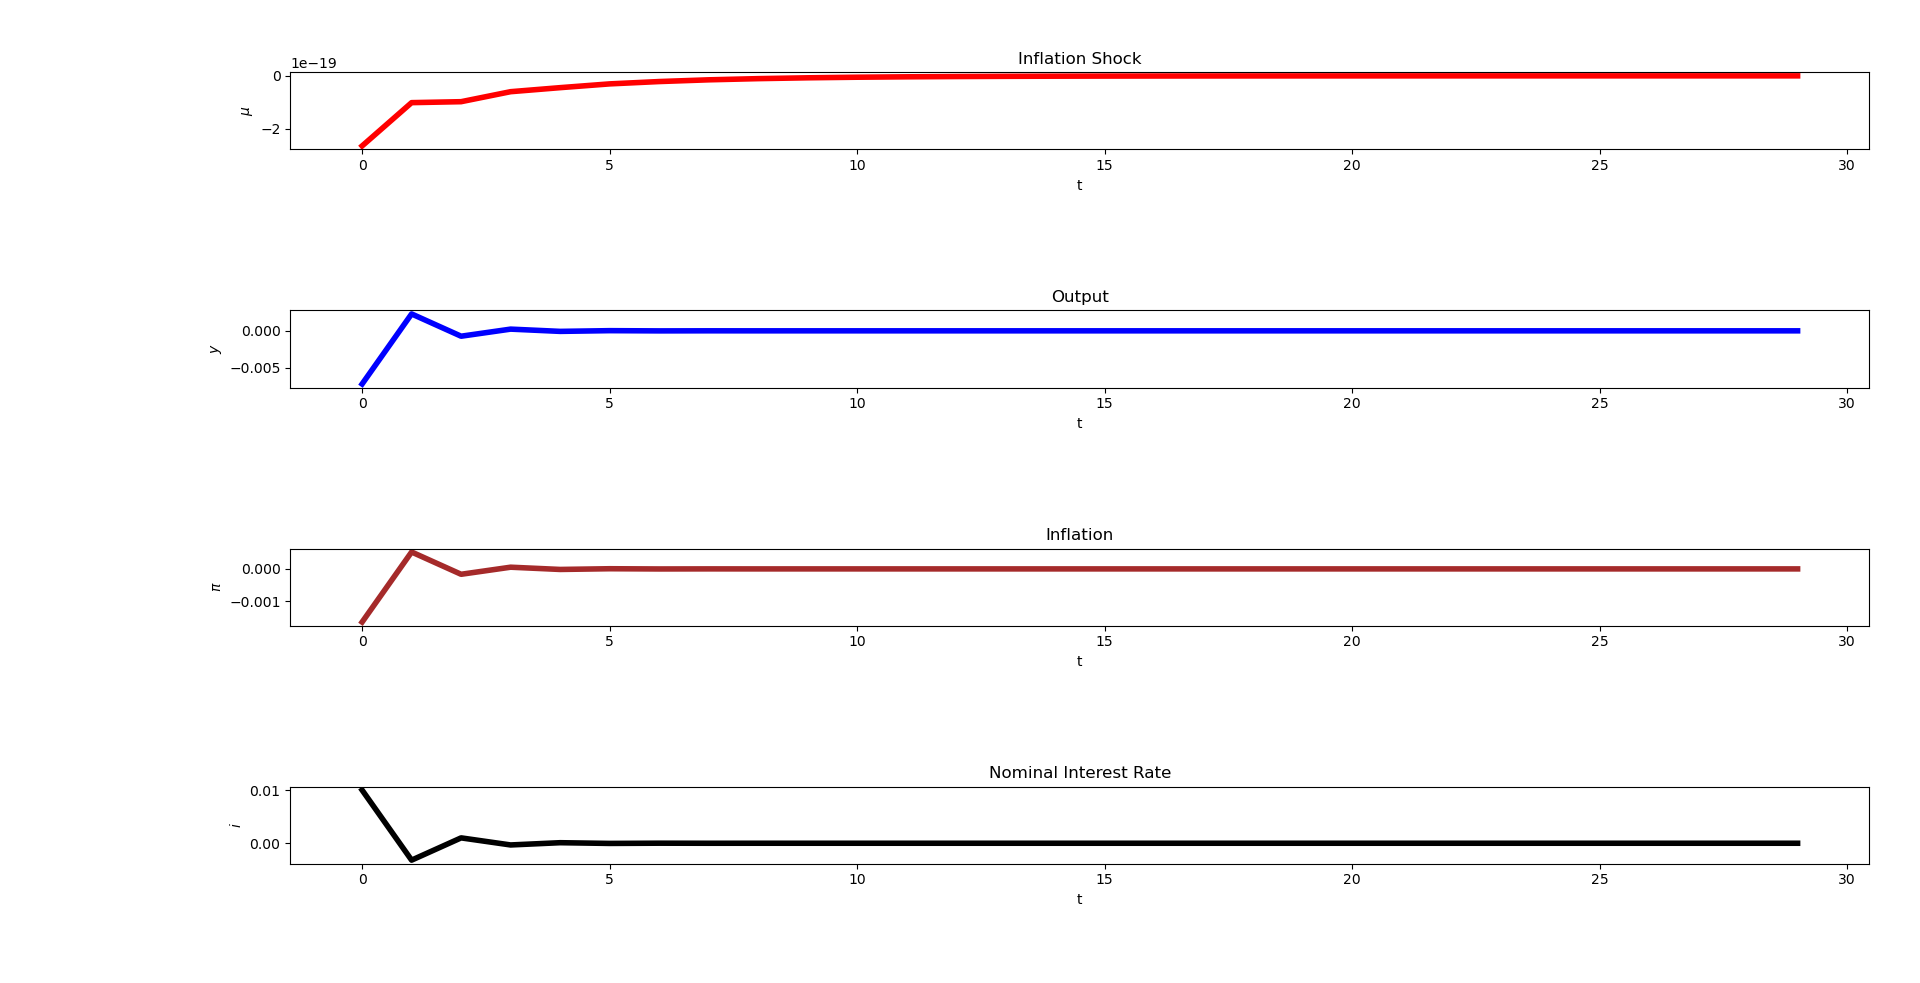
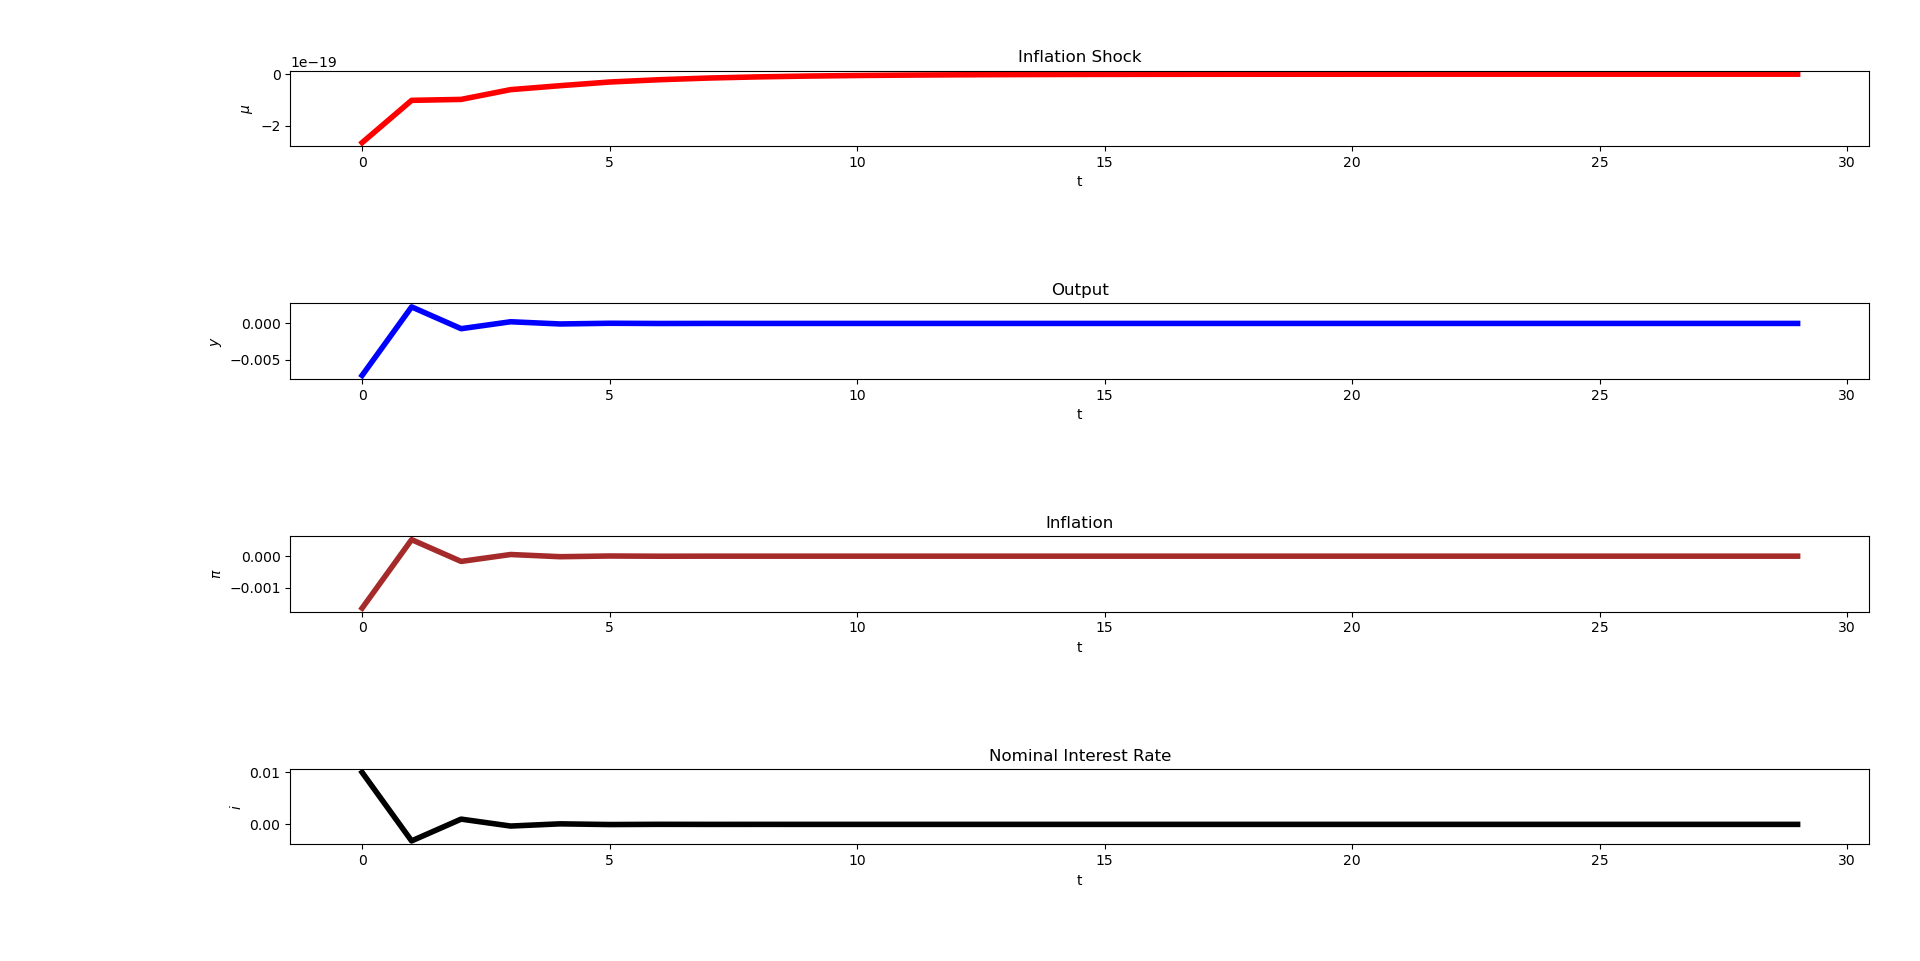
v1
still needs interpretation and has different results for the last question
Probably due to calculation of expectations

diff --git a/Final/Final-Fickler.py b/Final/Final-Fickler.py
@@ -5,94 +5,105 @@ Created on Sat Feb  13 2021
     @author: Florian Fickler - 1545713
 """
 
-#Importing packages
+# Importing packages
 import numpy as np
 import matplotlib.pyplot as plt
-from  scipy.optimize import fsolve
+from scipy.optimize import fsolve
+import pandas as pd
+from statsmodels.formula.api import ols
 
 # =============================================================================
 # Define parameters in a dictionary
-para = {"sigma" : 1,
-        "kappa" : 0.3,
-        "beta" : 0.995,
-        "phi_pi" : 1.5,
-        "phi_y" : 0.1,
-        "rho_mu" : 0.7}
+para = {"sigma": 1,
+        "kappa": 0.3,
+        "beta": 0.995,
+        "phi_pi": 1.5,
+        "phi_y": 0.1,
+        "rho_mu": 0.7}
+
 
 # =============================================================================
 # 1. Define Matrices A,M,D
-# Each line defines one matrix by entering the respective values that are either fixed or taken from the parameters dictionary above.
-# The matrices are defined globaly, therefore, when they are needed in later functions, they do not need to be called as inputs.
-A = np.array([[1,0,0,0],
-              [0,1,0,1/para["sigma"]],
-              [-1,-para["kappa"], 1, 0],
-              [0,0,0,1]])
+# Each line defines one matrix by entering the respective values
+# Values are either fixed or taken from the parameters dictionary above.
+# The matrices are defined globaly-
+# Therefore, when they are needed in later functions, they do not need to be called
 
-M = np.array([[0,0,0,0],
-              [0,1,1/para["sigma"],0],
-              [0,0,para["beta"],0],
-              [0,0,0,0]])
+A = np.array([[1, 0, 0, 0],
+              [0, 1, 0, 1/para["sigma"]],
+              [-1, -para["kappa"], 1, 0],
+              [0, 0, 0, 1]])
 
-D = np.array([[para["rho_mu"],0,0,0],
-              [0,0,0,0],
-              [0,0,0,0],
-              [0, para["phi_y"],para["phi_pi"],0]])
+M = np.array([[0, 0, 0, 0],
+              [0, 1, 1/para["sigma"], 0],
+              [0, 0, para["beta"], 0],
+              [0, 0, 0, 0]])
+
+D = np.array([[para["rho_mu"], 0, 0, 0],
+              [0, 0, 0, 0],
+              [0, 0, 0, 0],
+              [0, para["phi_y"], para["phi_pi"], 0]])
+
 
 # =============================================================================
 # 2. Function for Calculating z_t
-def Q2(guess):    
+def Q2(guess):
     # Setting the expectations and the previous levels to the guessed values
     Et_zt = guess
-    ztminus1 =  guess
-    
+    ztminus1 = guess
+
     # Setting the Error term to zero, e.g. assuming, that there is no shock
     u_t = 0
-    
+
     # Calculating the RHS of Eq6
     RHS6 = M@Et_zt + D@ztminus1 + u_t
-    
+
     # Calculating z_t as implied by Eq.6
     z_t = np.linalg.inv(A) @ RHS6
-    
-    #Calculating the difference from the guessed value and the actual value
+
+    # Calculating the difference from the guessed value and the actual value
     diff = z_t - guess
-    
+
     # returning the difference
     return diff
 
+
 # Executing the Function with guesses as inputs
-diff = Q2([1,2,3,4])
+diff = Q2([1, 2, 3, 4])
 print("The difference between the guessed and implied values are: ", diff)
+
 
 # =============================================================================
 # # 3.Using Fsolve to find the SS when there is no shock
-SteadyState_nocons = fsolve(Q2, [1,2,3,4])
+SteadyState_nocons = fsolve(Q2, [1, 2, 3, 4])
 print("The SS without a Shock is: ", SteadyState_nocons)
+
 
 # =============================================================================
 # 4.
 def Q4(F_guess):
-    # A,M,D are defined globally 
-    
+    # A,M,D are defined globally
+
     # Calculate the new F once
-    F_new = np.zeros((4,4))
-      
+    F_new = np.zeros((4, 4))
+
     # Run a While loop, comparing the guessed value to the new value
-    # If they are "sufficiently close to each other, then exit the loop 
-    
+    # If they are "sufficiently close to each other, then exit the loop
+
     while np.max(np.abs(F_new - F_guess)) > 1e-8:
         # Assign the new value as the new guess
-        F_guess = F_new        
+        F_guess = F_new
         # Calculate the new F again based on the altered guess
         F_new = np.linalg.inv(A - M@F_guess) @ D
         # Then reevaluate the difference between the newly estimated F and the previously estimated F
         # If the difference becomes small enough, the while loop is exited
-           
-    # If F has converged, calculate Q    
+
+    # If F has converged, calculate Q
     Q = np.linalg.inv(A - M @ F_new)
-    
+
     # return the converged F and Q
-    return F_new, Q 
+    return F_new, Q
+
 
 # =============================================================================
 # 5.
@@ -100,24 +111,25 @@ def Q4(F_guess):
 
 
 # Call function Q4
-F, Q = Q4(np.array([[5],[6],[7],[8]]))
+F, Q = Q4(np.array([[5], [6], [7], [8]]))
 
 # General Solution
 # z_t = F*z_tminus1 + Q * u_t
+
 
 # =============================================================================
 # 6.
 # Saving the corrosponding vectors for the MSV solution
 # z_t = C_mu*mu_neg1 + C_y*y_tneg1 + C_pi*pi_tneg1 + C_eps*eps_t^mu + C_eps_i*eps_t^i
 # Vectors for the lagged variables are stored in each column of F
-C_mu = F[:, 0]
+C_mu = F[:, 0]  # whole columns are accessed by using : to access all rows for a given column
 C_y = F[:, 1]
 C_pi = F[:, 2]
-C_i = F[:, 3]
 
 # Those for the white noise terms are stored in Q
 C_eps_mu = Q[:, 0]
 C_eps_i = Q[:, 3]
+
 
 # =============================================================================
 # 7. Calculating Impulse Responses for epsilon_mu
@@ -126,79 +138,75 @@ N = 30
 # For the Noise
 epsilon_mu1 = np.zeros(N)
 epsilon_i1 = np.zeros(N)
-                     
+
 # For the variables
 mu1 = np.zeros(N)
 y1 = np.zeros(N)
 pi1 = np.zeros(N)
 i1 = np.zeros(N)
 
-# Insert Impulse
-epsilon_mu1[0] =  0.01                 
+# Insert Impulse into the noise array
+epsilon_mu1[0] = 0.01
 
 # for loop to go through 30 periods
 for j in range(N):
-    mu1[j],y1[j],pi1[j],i1[j] = [C_mu[hh]*mu1[j-1] + 
-                             C_y[hh]*y1[j-1] + 
-                             C_pi[hh]*pi1[j-1] + 
-                             C_i[hh]*i1[j-1] + 
-                             C_eps_mu[hh]*epsilon_mu1[j] + 
-                             C_eps_i[hh]*epsilon_i1[j]                               
-                               for hh in range(4)]
+    mu1[j], y1[j], pi1[j], i1[j] = [C_mu[hh]*mu1[j-1] +
+                                    C_y[hh]*y1[j-1] +
+                                    C_pi[hh]*pi1[j-1] +
+                                    C_eps_mu[hh]*epsilon_mu1[j] +
+                                    C_eps_i[hh]*epsilon_i1[j]
+                                    for hh in range(4)]
+
 
 # =============================================================================
 # 8. Calculating Impulse Responses for epsilon_i
-# First set up number of periods and empty arrays
-N = 30
 # For the Noise
 epsilon_mu2 = np.zeros(N)
 epsilon_i2 = np.zeros(N)
-                     
+
 # For the variables
 mu2 = np.zeros(N)
 y2 = np.zeros(N)
 pi2 = np.zeros(N)
 i2 = np.zeros(N)
 
-# Insert Impulse
-epsilon_i2[0] =  0.01                 
+# Insert Impulse into noise array
+epsilon_i2[0] = 0.01
 
-# for loop to go through 30 periods
+# for loop to go through 30 periods and calculate the realizations for each
 for j in range(N):
-    mu2[j],y2[j],pi2[j],i2[j] = [C_mu[hh]*mu2[j-1] + 
-                             C_y[hh]*y2[j-1] + 
-                             C_pi[hh]*pi2[j-1] + 
-                             C_i[hh]*i2[j-1] + 
-                             C_eps_mu[hh]*epsilon_mu2[j] + 
-                             C_eps_i[hh]*epsilon_i2[j]                               
-                               for hh in range(4)]
+    mu2[j], y2[j], pi2[j], i2[j] = [C_mu[hh]*mu2[j-1] +
+                                    C_y[hh]*y2[j-1] +
+                                    C_pi[hh]*pi2[j-1] +
+                                    C_eps_mu[hh]*epsilon_mu2[j] +
+                                    C_eps_i[hh]*epsilon_i2[j]
+                                    for hh in range(4)]
+
 
 # =============================================================================
 # 9. Creating Figures
+# Figure 1 for the shock from Q7
+plt.figure("Impulse Response Epsilon_Mu")  # Figure Title
 
-#Figure 1 for the shock from Q7
-plt.figure("Impulse Response Epsilon_Mu")
+plt.subplot(4, 1, 1)  # Position of Subplot within Figure
+plt.title("Inflation Shock")  # Subplot Title
+plt.xlabel("t")  # x label
+plt.ylabel(r"$\mu$")  # y label
+plt.plot([mu1[t] for t in range(N)], linewidth=4, color='red')  # plot data and line properties
 
-plt.subplot(4,1,1)
-plt.title("Inflation Shock")
-plt.xlabel("t")
-plt.ylabel(r"$\mu$")
-plt.plot([mu1[t] for t in range(N)], linewidth=4, color='red')
-plt.axis('auto')
-
-plt.subplot(4,1,2)
+plt.subplot(4, 1, 2)
 plt.title("Output")
 plt.xlabel("t")
 plt.ylabel(r"$y$")
 plt.plot([y1[t] for t in range(N)], linewidth=4, color='blue')
 
-plt.subplot(4,1,3)
+plt.subplot(4, 1, 3)
 plt.title("Inflation")
 plt.xlabel("t")
 plt.ylabel(r"$\pi$")
 plt.plot([pi1[t] for t in range(N)], linewidth=4, color='brown')
 
-plt.subplot(4,1,4)
+plt.subplot(4, 1, 4)
 plt.title("Nominal Interest Rate")
 plt.xlabel("t")
 plt.ylabel(r"$i$")
@@ -206,32 +214,104 @@ plt.plot([i1[t] for t in range(N)], linewidth=4, color='black')
 
 plt.tight_layout()
 
-#Figure 1 for the shock from Q8
+# Figure 2 for the shock from Q8
 plt.figure("Impulse Response Epsilon_I")
 
-plt.subplot(4,1,1)
+plt.subplot(4, 1, 1)
 plt.title("Inflation Shock")
 plt.xlabel("t")
 plt.ylabel(r"$\mu$")
 plt.plot([mu2[t] for t in range(N)], linewidth=4, color='red')
 plt.axis('auto')
 
-plt.subplot(4,1,2)
+plt.subplot(4, 1, 2)
 plt.title("Output")
 plt.xlabel("t")
 plt.ylabel(r"$y$")
 plt.plot([y2[t] for t in range(N)], linewidth=4, color='blue')
 
-plt.subplot(4,1,3)
+plt.subplot(4, 1, 3)
 plt.title("Inflation")
 plt.xlabel("t")
 plt.ylabel(r"$\pi$")
 plt.plot([pi2[t] for t in range(N)], linewidth=4, color='brown')
 
-plt.subplot(4,1,4)
+plt.subplot(4, 1, 4)
 plt.title("Nominal Interest Rate")
 plt.xlabel("t")
 plt.ylabel(r"$i$")
 plt.plot([i2[t] for t in range(N)], linewidth=4, color='black')
 
 plt.tight_layout()
+
+
+# =============================================================================
+# 10. Interpretation of the Impulse Response
+
+
+# =============================================================================
+# 11. Creating Figures
+# Change the number of periods
+N = 500
+
+# set seed for radnom draws
+np.random.seed(1594)
+
+# Draw random realizations for the shocks
+epsilon_mu3 = np.random.rand(N)
+epsilon_i3 = np.random.rand(N)
+
+# Initialize empty arrays for the variables
+mu3 = np.zeros(N)
+y3 = np.zeros(N)
+pi3 = np.zeros(N)
+i3 = np.zeros(N)
+
+# Insert Impulse
+epsilon_mu3[0] = 0.01
+
+# for loop to go through 30 periods
+for j in range(N):
+    mu3[j], y3[j], pi3[j], i3[j] = [C_mu[hh]*mu3[j-1] +
+                                    C_y[hh]*y3[j-1] +
+                                    C_pi[hh]*pi3[j-1] +
+                                    C_eps_mu[hh]*epsilon_mu3[j] +
+                                    C_eps_i[hh]*epsilon_i3[j]
+                                    for hh in range(4)]
+
+df = pd.DataFrame(list(zip(y3, pi3)), columns=['Output', 'Inflation'])
+
+
+# =============================================================================
+# 12. Calculating Inflation Expectations
+# Advancing z_t to z_t+1 and taking expectations yields:
+# EZ_t+1 =C_mu*mu_t C_y*y_t + C_pi*pi_t
+
+# Inizialize empty array
+E_pi = np.zeros(N)
+# Calculate expectations via for loop
+for j in range(N):
+    E_pi[j] = C_mu[2]*mu3[j] + C_y[2]*y3[j] + C_pi[2]*pi3[j]
+
+# Add expectations to the dataframe
+df['Inflation_Expectations'] = pd.DataFrame(E_pi)
+
+
+# =============================================================================
+# 13. Calculating the Forecast Error
+# Inflation has to be shifted, so that we use pi_t+1
+df['fc_error'] = df['Inflation'].shift(-1) - df['Inflation_Expectations']
+
+
+# =============================================================================
+# 14. Regression
+# Define OLS function
+reg = ols(formula='fc_error ~ Inflation', data=df)
+
+# Fit the OLS with robust SE
+fit = reg.fit(cov_type='HAC', cov_kwds={'maxlags': 1})
+
+# Print summary statistics
+print(fit.summary())
+
+# interpretation
